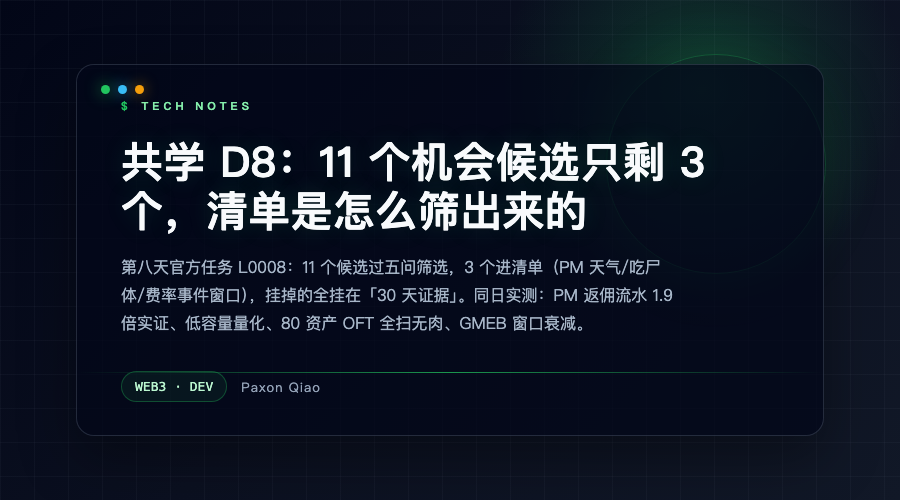
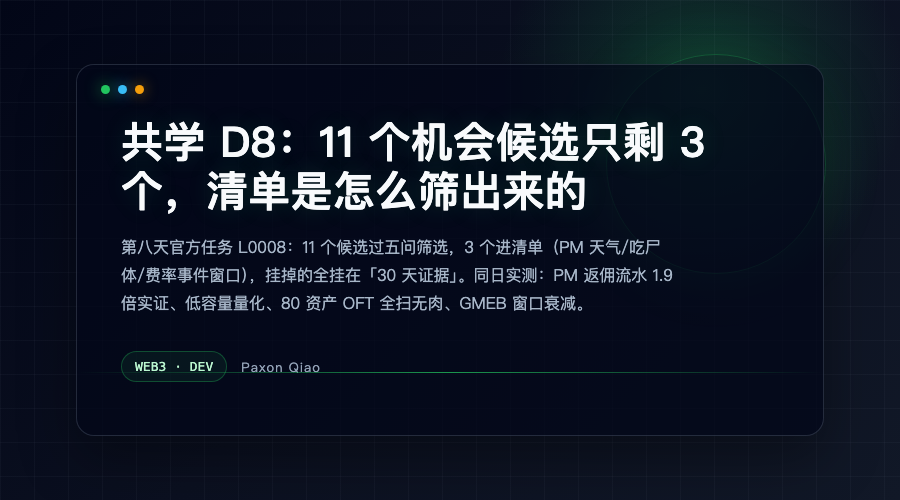
雷达v3: 连续确认逻辑(连续2次采样=1h持续才推送, 首次静默+归一化键+旧格式兼容), 端到端实测通过

Changed region(s): [[0.1244, 0.18, 0.7778, 0.66], [0.1244, 0.72, 0.3733, 0.81]]

diff --git a/social/wechat/2026-08-12-d8-opportunity-shortlist.cover.html b/social/wechat/2026-08-12-d8-opportunity-shortlist.cover.html
@@ -28,7 +28,7 @@ body{width:900px;height:500px;overflow:hidden;font-family:'SF Pro Text',-apple-s
   <div class="grid"></div><div class="glow"></div>
   <section class="panel">
     <div class="toolbar"><span class="dot"></span><span class="dot"></span><span class="dot"></span></div>
-    <div class="tag"><span class="prompt">$</span>TECH NOTES</div>
+
     <h1 class="title">共学 D8：11 个机会候选只剩 3 个，清单是怎么筛出来的</h1>
     <p class="subtitle">第八天官方任务 L0008：11 个候选过五问筛选，3 个进清单（PM 天气/吃尸体/费率事件窗口），挂掉的全挂在「30 天证据」。同日实测：PM 返佣流水 1.9 倍实证、低容量量化、80 资产 OFT 全扫无肉、GMEB 窗口衰减。</p>
     <div class="meta"><span class="chip">WEB3 · DEV</span><span class="author">Paxon Qiao</span></div>

diff --git a/social/wechat/2026-08-12-d8-opportunity-shortlist.html b/social/wechat/2026-08-12-d8-opportunity-shortlist.html
@@ -39,7 +39,7 @@ body{width:900px;height:500px;overflow:hidden;font-family:'SF Pro Text',-apple-s
   <div class="grid"></div><div class="glow"></div>
   <section class="panel">
     <div class="toolbar"><span class="dot"></span><span class="dot"></span><span class="dot"></span></div>
-    <div class="tag"><span class="prompt">$</span>TECH NOTES</div>
+
     <h1 class="title">共学 D8：11 个机会候选只剩 3 个，清单是怎么筛出来的</h1>
     <p class="subtitle">第八天官方任务 L0008：11 个候选过五问筛选，3 个进清单（PM 天气/吃尸体/费率事件窗口），挂掉的全挂在「30 天证据」。同日实测：PM 返佣流水 1.9 倍实证、低容量量化、80 资产 OFT 全扫无肉、GMEB 窗口衰减。</p>
     <div class="meta"><span class="chip">WEB3 · DEV</span><span class="author">Paxon Qiao</span></div>

diff --git a/scripts/no_arb_corridor_radar.py b/scripts/no_arb_corridor_radar.py
@@ -62,6 +62,7 @@ SAMPLES_SOL = [0.1, 1, 10, 100]
 EXIT_BPS_MIN = 20        # 出轨超出走廊 ≥20bps 才算信号（防测量噪音）
 DEPTH_SUSPECT_BPS = 300  # 腿价偏离 Raydium 锚点超过此值 = 深度可疑
 HARD_CAP_BPS = 5000       # 配对价差超过此值 = 报价损坏（v2.1，#13 发现的 12 万 bps 假出轨）
+CONFIRM_N = 2            # v3 连续确认：同一配对连续 N 次采样出轨才算确认信号（30min×2=1h 持续）
 STATE_PATH = Path(__file__).resolve().parent.parent / "data" / "corridor_radar_state.json"
 LOG_PATH = Path(__file__).resolve().parent.parent / "data" / "corridor_exits.csv"
 SERIES_PATH = Path(__file__).resolve().parent.parent / "data" / "corridor_series.csv"
@@ -216,9 +217,32 @@ def tick() -> int:
     suspect_exits = [p for p in pairs if p["exit_bps"] >= EXIT_BPS_MIN and p["suspect"]]
 
     ts = pairs[0]["ts"] if pairs else datetime.now(timezone.utc).strftime("%Y-%m-%d %H:%M:%S UTC")
-    # 状态快照（记录最近出轨集合；连续确认逻辑 v3 再加）
-    cur_keys = [f"{e['size']}:{e['pool_a']}<->{e['pool_b']}" for e in exits]
-    state = {"exit_keys": cur_keys, "ts": ts}
+    # v3 连续确认：跨采样累积出轨计数，连续 N 次才确认（防单次测量噪音/瞬时冲击误报）
+    old_state = {}
+    try:
+        if STATE_PATH.exists():
+            old_state = json.loads(STATE_PATH.read_text())
+    except Exception:
+        pass
+    old_pending = old_state.get("pending", {}) or {}
+    # 兼容旧格式：{"exit_keys": [...]} → 视为计数 1（从本次开始重新累计）
+    if old_state.get("exit_keys") and not old_pending:
+        old_pending = {k: 1 for k in old_state["exit_keys"]}
+
+    def key_of(p):
+        a, b = sorted([p["pool_a"], p["pool_b"]])  # 归一化：池名排序防顺序翻转断连续性
+        return f"{p['size']}:{a}<->{b}"
+
+    pending = {}
+    confirmed = []
+    for e in exits:
+        k = key_of(e)
+        cnt = old_pending.get(k, 0) + 1
+        pending[k] = cnt
+        if cnt >= CONFIRM_N:
+            e["confirm_count"] = cnt
+            confirmed.append(e)
+    state = {"pending": pending, "ts": ts}
     try:
         STATE_PATH.parent.mkdir(exist_ok=True)
         with open(STATE_PATH, "w") as f:
@@ -251,12 +275,12 @@ def tick() -> int:
         pass
 
     if args.watchdog:
-        if exits:
-            for e in exits:
-                print(f"⚠ 无套利带出轨 @ {e['ts']}：{e['pool_a']}↔{e['pool_b']} "
-                      f"@{e['size']}SOL 价差{e['spread_bps']}bps > 走廊{e['corridor_bps']}bps "
-                      f"（超{e['exit_bps']}bps）")
-        # 疑似假信号（深度可疑腿）静默：只记账不打扰
+        if confirmed:
+            for e in confirmed:
+                print(f"⚠ 无套利带持续出轨（确认×{e['confirm_count']}）@ {e['ts']}："
+                      f"{e['pool_a']}↔{e['pool_b']} @{e['size']}SOL "
+                      f"价差{e['spread_bps']}bps > 走廊{e['corridor_bps']}bps（超{e['exit_bps']}bps）")
+        # 疑似假信号/首次出轨（待确认）静默：只记账不打扰
         return 0
 
     print(f"\n=== 无套利带雷达 @ {ts} ===")
@@ -266,11 +290,16 @@ def tick() -> int:
         mark = " 🔸D" if p["suspect"] else mark
         print(f"{p['size']:<6}{p['pool_a']:<14}{p['pool_b']:<14}"
               f"{p['spread_bps']:>9.1f}{p['corridor_bps']:>9.0f}{p['exit_bps']:>9.1f}{mark:>4}")
-    if exits:
-        print(f"\n🚨 出轨 {len(exits)} 对（超出走廊 ≥{EXIT_BPS_MIN}bps，深度可信）：")
-        for e in exits:
-            print(f"  {e['pool_a']}↔{e['pool_b']} @{e['size']}SOL: {e['spread_bps']}bps > 走廊 {e['corridor_bps']}bps")
-    else:
+    if confirmed:
+        print(f"\n🚨 确认出轨 {len(confirmed)} 对（连续 {CONFIRM_N} 次采样，≥{EXIT_BPS_MIN}bps）：")
+        for e in confirmed:
+            print(f"  {e['pool_a']}↔{e['pool_b']} @{e['size']}SOL: {e['spread_bps']}bps > 走廊 {e['corridor_bps']}bps（确认×{e['confirm_count']}）")
+    pending_show = [e for e in exits if e not in confirmed]
+    if pending_show:
+        print(f"\n⏳ 首次出轨（待连续确认，{len(pending_show)} 对）：")
+        for e in pending_show:
+            print(f"  {e['pool_a']}↔{e['pool_b']} @{e['size']}SOL: {e['spread_bps']}bps（第 1 次）")
+    if not exits:
         print("\n✅ 全部配对在无套利带内（市场有效，无出轨）")
     if suspect_exits:
         print(f"\n🔸 疑似假信号 {len(suspect_exits)} 对（腿价偏离锚点 ≥{DEPTH_SUSPECT_BPS}bps，深度可疑，不告警）：")

diff --git a/daily/2026-08-13.md b/daily/2026-08-13.md
@@ -55,3 +55,9 @@
   - 实测：平价全负（基线正确）；薄池 -5% 价差 10 SOL → +427.5bps ✅；**同价差 1000 SOL → 全部变负**（滑点=容量上限的数学演示）
 - **广度 D10**：aggregator-routing.md 读完——聚合器=市场共识价，edge 在它看不见的地方；定位：跨链搬砖适合、毫秒级不适合
 - 笔记：`notes/d10-profit-simulator-preview-20260813.md`
+
+## 追加（16:45）：雷达 v3 连续确认逻辑
+
+- `no_arb_corridor_radar.py` v3：同一配对连续 2 次采样出轨（30min×2=1h 持续）才推送确认信号；首次出轨记 pending 静默；池名顺序归一化防断连续性；兼容旧 state 格式
+- 端到端实测：当前无出轨（薄池 20-43bps 全在 60bps 走廊内=市场有效），state 已迁移 `{"pending": {}}`
+- 场景模拟全过：首次=1 不确认 / 连续=2 确认 / 消失重现重新计数
